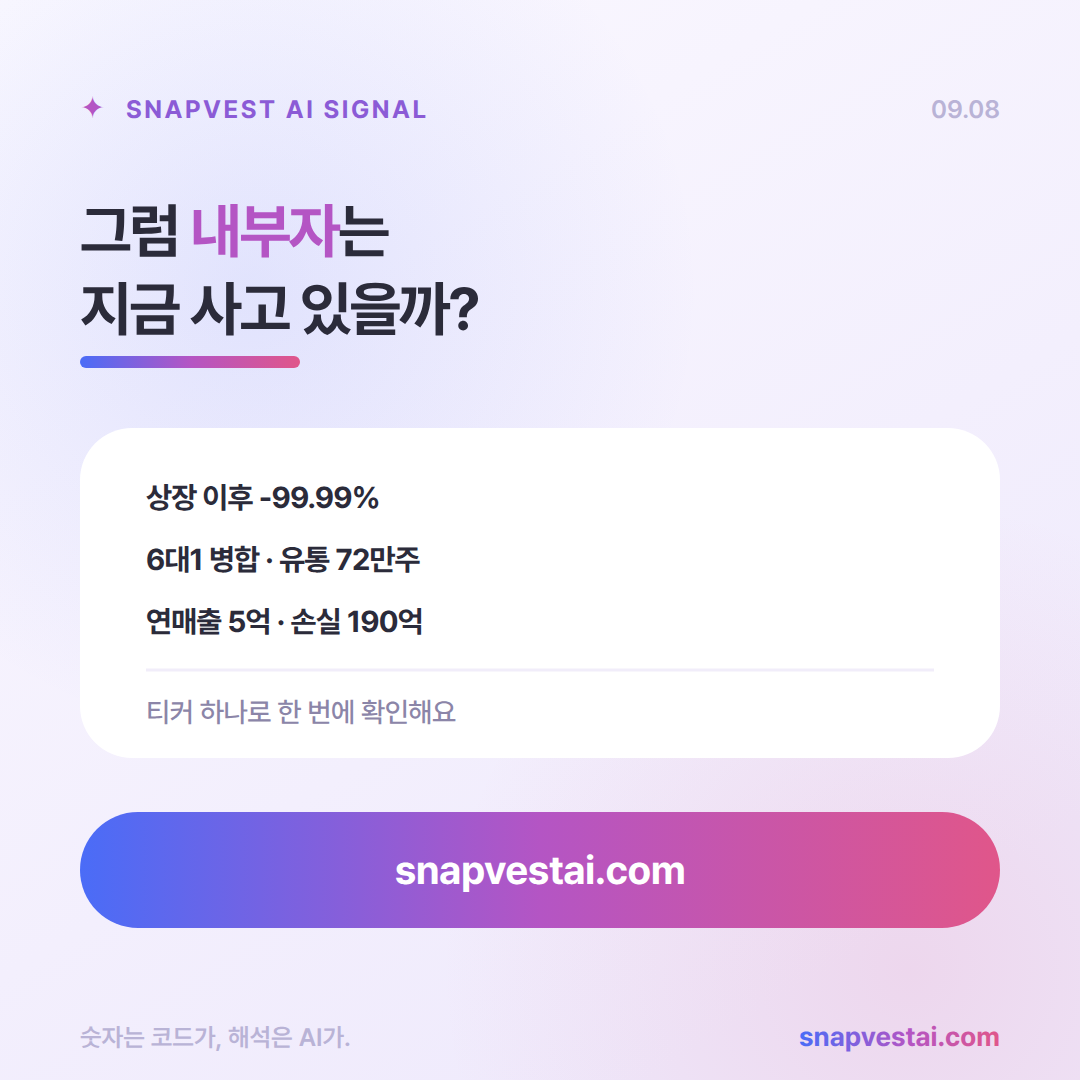
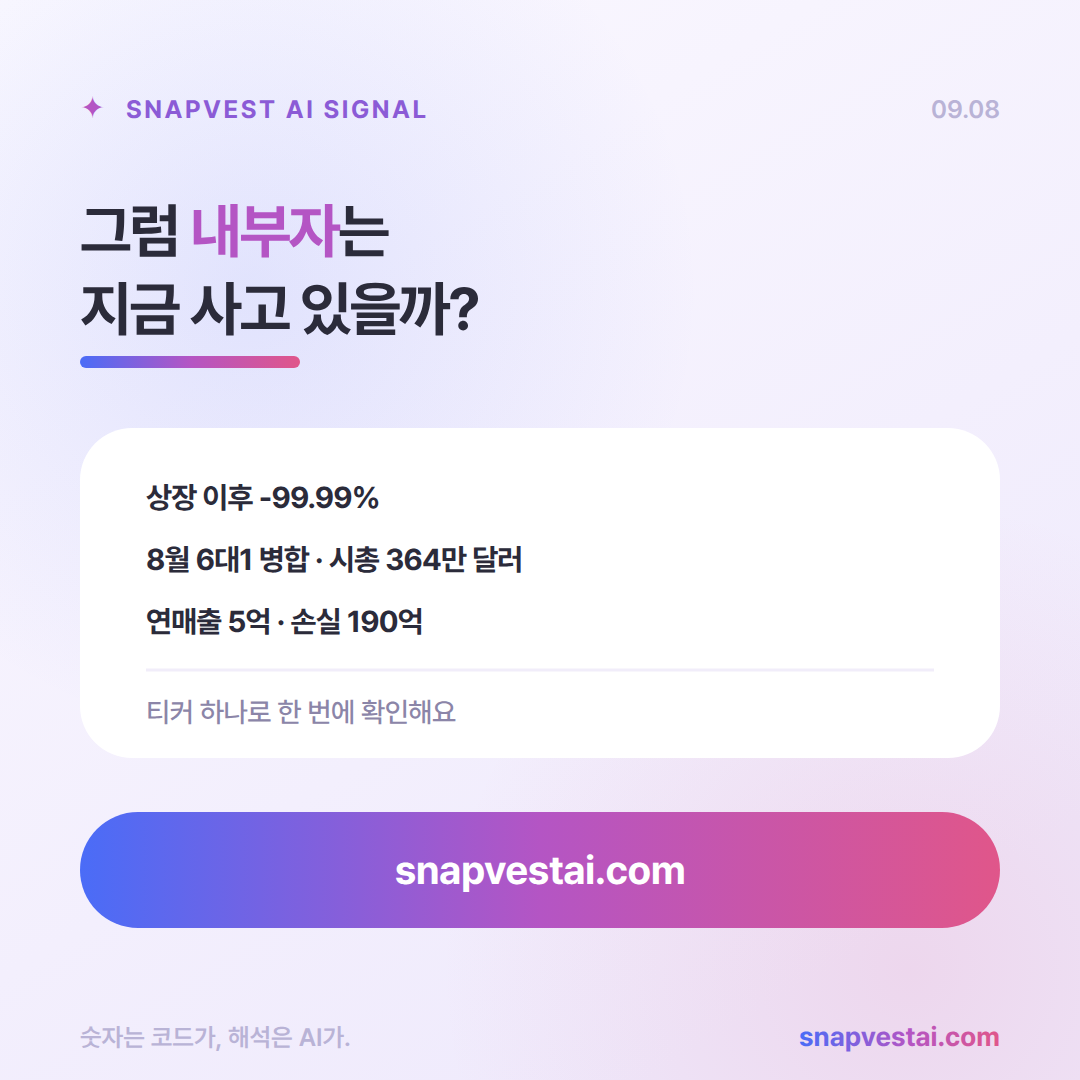
cardnews(BRNX): 토스 일별 시세로 시세·시총 바로잡고 4번을 실제 일봉으로
받은 토스 전체 표가 16일 연속임을 등락률 체인(최대 오차 0.007%p)과
OHLC 정합성으로 확인했다. 골라 뽑은 날이라 못 그렸던 일봉을 실제
시·고·저·종·거래량으로 그리고, 캡처 자리(photo_chart/chart_stats)를 걷어냈다.

  시세      $2.75 +22.76%  ->  $2.46 +9.82%  (09.08 프리마켓)
  시가총액  약 197만 달러  ->  약 364만 달러
  거래량    자료 없음      ->  27만주
  5번 문구  유통 72만주    ->  시총 364만 달러 (역산 148만주와 어긋나 삭제)

지표는 위 16일로 직접 계산했다. MFI 25 / RSI 48 / %B 0.23 —
8/27 하락일 거래량이 전체의 절반을 넘어 MFI만 눌린 자리다.

09.08 은 프리마켓이라 정규장 마감 뒤 마지막 봉과 지표가 바뀐다.
3번·4번 카드 하단에 그렇게 적었다.

Claude-Session: https://claude.ai/code/session_01RMiKh4knUhoRQtbEt8tjeA

Changed region(s): [[0.1222, 0.4889, 0.4889, 0.55]]

diff --git a/cardnews/SOURCES.md b/cardnews/SOURCES.md
@@ -2,69 +2,118 @@
 
 **국내 주식이 아니다.** 이스라엘 로시하아인(텔아비브 인근) 소재, 나스닥 상장.
 
-## ⚠ 날짜를 추론했다 — 확인 필요
+## ⚠ 첫 자료를 토스 화면으로 바로잡았다
 
-사용자 자료의 마지막 날짜 행은 `09.04 $2.24`이고, 그다음이 날짜 없이
-`최근 $2.75 (+22.76%)`로 적혀 있다. 카드에는 **09.08**로 넣었다.
+처음 받은 자료는 마지막 시세가 `$2.75 (+22.76%)` 였고, 날짜도 없었다.
+이후 받은 토스 일별 시세 전체 표로 세 군데를 고쳤다.
 
-근거 — 2026-09-04는 금요일이고, **9월 7일 월요일은 미국 노동절로 휴장**이다
-(2026년 9월 1일이 화요일이므로 첫 월요일이 7일). 따라서 9/4 다음 정규장은
-**9월 8일 화요일**뿐이다.
+| 항목 | 처음 | 고친 값 | 근거 |
+|---|---|---|---|
+| 시세 | $2.75 · +22.76% | **$2.46 · +9.82%** | 토스 09.08 행 · 2.46/2.24−1 = +9.82% |
+| 시가총액 | 약 197만 달러 | **약 364만 달러** | 토스 표기 $3,638,900 |
+| 발행주식 | 72만주 (병합 후 계산) | **약 148만주** | 3,638,900 ÷ 2.46 = 1,479,228 |
 
-**틀렸으면 `date` 한 줄만 고치면 된다.**
+$2.75 는 09.08 장외에서 잠깐 찍힌 값으로 보인다. 표의 09.08 행 고가가
+$2.87 이라 정규장·프리마켓 어디서도 $2.75 종가가 성립하지 않는다.
 
-## 시세 — 사용자 제공 (토스/증권사 표기)
+## ⚠ 09.08 은 아직 안 끝난 날이다 — 프리마켓 기준
 
-| 항목 | 값 |
-|---|---|
-| 종가 | **$2.75** |
-| 등락률 | **+22.76%** (전일 $2.24) |
-| 애프터마켓 | +11.60% |
-| 52주 범위 | $2.06 ~ $512.40 |
+토스 헤더가 `$2.46 · 프리마켓 +$0.22 (9.82%)` 로 나온다. 거래량도
+**272,174주로 직전 15일 평균(2,741,255주)의 0.10배**뿐이다. 두 가지가
+같은 말을 한다 — **정규장이 아직 안 끝났다.**
 
-### 등락률 체인 검산
+카드에는 프리마켓 기준임을 두 자리에 적었다.
 
-연속된 날끼리 전부 맞는다. 오차 최대 0.01%p.
+▪ 3번 카드 하단 — `시세는 9/8 프리마켓 기준`
+▪ 4번 카드 하단 — `마지막 봉은 프리마켓이에요`
+
+**오늘 정규장이 닫히면 마지막 봉과 지표 세 개가 바뀐다.**
+지난 회차(SNOW)에서 프리마켓 MFI 27 이 정규장 확정 뒤 49 로 올라갔다.
+
+## 일별 시세 — 토스 캡처 (16일 전부 실제값)
+
+| 날짜 | 시가 | 고가 | 저가 | 종가 | 거래량 |
+|---|---|---|---|---|---|
+| 08.17 | $3.61 | $3.71 | $2.65 | $3.05 | 3,413,108 |
+| 08.18 | $3.01 | $3.02 | $2.41 | $2.65 | 425,752 |
+| 08.19 | $2.75 | $3.90 | $2.64 | $2.97 | 1,878,419 |
+| 08.20 | $2.88 | $3.26 | $2.80 | $3.20 | 2,486,750 |
+| 08.21 | $3.73 | $4.00 | $3.47 | $3.73 | 1,478,050 |
+| 08.24 | $4.20 | $4.20 | $3.69 | $4.18 | 486,255 |
+| 08.25 | $4.94 | $5.75 | $4.63 | $5.56 | 1,710,566 |
+| 08.26 | $6.45 | $7.40 | $5.79 | $6.24 | 1,282,569 |
+| 08.27 | $6.89 | **$10.36** | $3.26 | $3.86 | **10,477,643** |
+| 08.28 | $3.83 | $4.25 | $3.01 | $3.89 | 6,088,514 |
+| 08.31 | $4.50 | $4.87 | $3.88 | $4.28 | 2,093,580 |
+| 09.01 | $3.42 | $3.85 | $3.28 | $3.52 | 2,404,933 |
+| 09.02 | $3.89 | $4.00 | $3.04 | $3.16 | 2,241,281 |
+| 09.03 | $3.31 | $3.33 | $2.80 | $3.04 | 737,253 |
+| 09.04 | $2.83 | $2.87 | $2.17 | $2.24 | 3,914,152 |
+| 09.08 | $2.50 | $2.87 | $2.35 | **$2.46** | 272,174 ⚠프리마켓 |
+
+### 두 가지 검산을 통과했다
 
 ```
-08.25 → 08.26   +12.23%  (표기 +12.23%)  ✓
-08.26 → 08.27   -38.14%  (표기 -38.14%)  ✓
-08.31 → 09.01   -17.76%  (표기 -17.75%)  ✓
-09.01 → 09.02   -10.23%  (표기 -10.22%)  ✓
-09.02 → 09.03    -3.80%  (표기 -3.79%)   ✓
-09.03 → 09.04   -26.32%  (표기 -26.31%)  ✓
-09.04 → 최근    +22.77%  (표기 +22.76%)  ✓
+등락률 체인   16일 전부 (close/prev−1) 가 표기 등락률과 일치.
+             최대 오차 0.007%p → 빠진 거래일이 없다 ✓
+OHLC 정합성   16일 전부 저가 ≤ min(시,종), 고가 ≥ max(시,종) ✓
 ```
 
-08.21→08.25 와 08.27→08.31 은 사이에 거래일이 빠져 있어 체인이 안 맞는다.
-자료가 **연속된 전 거래일이 아니라 골라 뽑은 날**이라는 뜻이고, 이 회차의
-일봉을 그리면 안 되는 이유이기도 하다.
+**처음 받은 자료는 체인이 두 군데서 끊겼다**(08.21→08.25, 08.27→08.31).
+골라 뽑은 날이라 일봉을 못 그렸던 것이고, 이번 표는 연속이라 **실제 봉을
+그렸다.** 4번 카드의 캡처 자리를 없애고 진짜 일봉으로 바꾼 이유다.
 
-### 파생값 (직접 계산)
+## 지표 — 위 16일로 직접 계산
+
+| 지표 | 값 | 계산 |
+|---|---|---|
+| MFI(14) | **25** · 자금 유출 우위 | 대표가 (고+저+종)/3 × 거래량 |
+| RSI(14) | **48** · 중립 구간 | 종가 변화폭 14일 |
+| 볼린저 %B | **0.23** · 하단 밴드 근처 | 16일 이동평균 ± 2σ (표본표준편차) |
 
 ```
-병합 후 발행주식   430만 ÷ 6 = 716,667주
-시가총액          716,667 × $2.75 = $1,970,833  → 약 197만 달러
-52주 고점 대비     2.75 / 512.40 − 1 = -99.46%   → 카드에 -99%
-52주 저가 대비     2.75 / 2.06 − 1 = +33.5%
-52주 범위 안 위치  (2.75−2.06) / (512.40−2.06) = 0.14%
+볼린저   중심 $3.627 · σ 1.071 · 하단 $1.486 · 상단 $5.768
 ```
 
-사용자 자료의 시총 표기 `188만~220만 달러` 범위 안에 들어간다.
-
-**52주 범위에서 0.14% 지점이다.** 사실상 바닥이다.
+**MFI 25 와 RSI 48 이 벌어진 이유.** 8/27 하락일 거래량 1,047만 주가
+16일 전체 거래량의 절반을 넘는다. MFI 는 거래량을 싣기 때문에 그 하루가
+분자를 통째로 눌러 25 로 나오고, RSI 는 거래량을 안 보니 48(중립)에 선다.
+**같은 화면을 값 하나로만 읽으면 안 되는 자리다.**
 
 ## ⚠⚠ 이 회차에서 제일 조심할 것 — 병합 소급 반영값
 
 `$512.40`(52주 고가) · `$181,965`(사상 최고가) 는 **실제로 그 값에 거래된
 적이 없다.** 반복된 주식병합(reverse split)을 소급 반영해 환산한 값이다.
 
-가장 최근 병합은 **2026년 8월 12일 6대1**이고, 이때 발행주식이
-430만주 → 약 72만주로 줄었다.
+가장 최근 병합은 **2026년 8월 12일 6대1**이다.
 
 카드에는 `-99%`(고점 대비)만 넣고 `$512.40` 같은 절대값은 안 썼다.
 **글귀에서 이 값을 쓸 때는 반드시 "병합 소급 반영 기준"이라고 붙인다.**
 안 붙이면 "18만 달러 하던 주식"으로 읽힌다.
+
+## ⚠ 발행주식이 자료보다 두 배다
+
+```
+자료 기준   430만 ÷ 6 = 716,667주
+토스 역산   $3,638,900 ÷ $2.46 = 1,479,228주   ← 약 2.06배
+```
+
+병합 직후 72만주였다면 그 뒤에 **약 76만주가 새로 발행됐다는 뜻**이다.
+현금 $490만 대 총부채 $900만인 회사라 증자 가능성이 낮지 않지만,
+**어떤 공시로 늘었는지는 확인하지 못했다.** 그래서 5번 카드 문구를
+`6대1 병합 · 유통 72만주` 에서 **`8월 6대1 병합 · 시총 364만 달러`** 로
+바꿨다. 검산된 값만 남긴 것이다.
+
+## 파생값 (직접 계산)
+
+```
+52주 고점 대비   2.46 / 512.40 − 1 = -99.52%   → 카드에 -99%
+52주 저가 대비   2.46 / 2.06 − 1 = +19.4%
+52주 범위 안 위치 (2.46−2.06) / (512.40−2.06) = 0.08%
+8월 고가 대비    2.46 / 10.36 − 1 = -76.3%
+```
+
+**52주 범위에서 0.08% 지점이다.** 사실상 바닥이다.
 
 ## 상승 이유 (사용자 제공)
 
@@ -75,10 +124,13 @@
    'The Big Biz Show' 출연 (175개국 케이블·Roku·라디오)
 3. **헝가리 프로젝트** — 8/28 첫 통합 에너지 리소스 센터 부지
    확정 매입 계약. 태양광 + 배터리 + 열 저장 + 데이터센터 결합 구상
-4. **병합으로 유통물량 급감** — 72만주. 소량 거래로도 크게 흔들린다
+4. **병합으로 유통물량 급감** — 소량 거래로도 크게 흔들린다
 
 **최근 개별 등락일 대부분에 새 공시가 없다.** 8월 이후 급등락은
 리브랜딩 모멘텀의 연장선이고 시장 전체 흐름과도 따로 논다.
+
+일별 표가 이걸 그대로 보여준다 — 8/27 CEO 방송 출연일 장중 $10.36 을
+찍고 같은 날 종가 $3.86 으로 -38% 마감했다. **하루 안에 3배 폭이 났다.**
 
 ## 회사
 
@@ -103,43 +155,18 @@
 
 ## 리스크
 
-▪ 초소형주 — 시총 약 197만 달러 (25억~30억원). 코스닥 최소형주보다 작다
-▪ 극단적 저유동성 — 유통 약 72만주. 하루 -38%, +33%가 정상 범주로 나온다
+▪ 초소형주 — 시총 약 364만 달러 (약 48억원). 코스닥 최소형주보다 작다
+▪ 극단적 저유동성 — 하루 -38%, +33%가 정상 범주로 나온다
 ▪ **주식병합 상습** — 나스닥 최소주가($1) 요건을 맞추려는 조치.
   근본 원인(주가 하락)이 안 풀리면 또 할 수 있다
+▪ **발행주식 증가** — 병합 후 72만주 → 약 148만주. 경위 미확인
 ▪ 매출 실체가 거의 없음 — 연매출 $387K. 데이터센터·AI는 아직 구상·텀시트 단계
 ▪ 재무 압박 — 현금 $490만 vs 총부채 $900만. EIB 채무 합의 미완료
 ▪ 명확한 촉매 부재 — 최근 급등락일 대부분에 새 공시가 없다
-
-## ⚠ 캡처의 값과 표의 종가가 다르다
-
-받은 일봉 캡처 두 장의 주석을 검산했더니 **기준 가격이 서로 다르다.**
-
-```
-첫 장   -73.64% / +32.52%  →  2.73  (10.36×0.2636, 2.06×1.3252)
-둘째 장 -73.55% / +33.00%  →  2.74  (화면 우측 가격표도 2.74)
-표의 종가                     2.75
-```
-
-세 값이 $0.01 씩 어긋난다. **실시간 값이 움직이는 중에 찍은 화면**이라는
-뜻이다. 카드 1번에는 표의 **$2.75(+22.76%)** 를 썼다 — 날짜를 달아 내보내는
-자리라 스냅샷보다 종가가 맞다.
-
-캡처에서 확인한 값 두 개는 그대로 쓴다. 시점과 무관하게 고정이다.
-
-```
-$2.06  26.08.06  사상 최저
-$10.36 26.08.27  8월 고가 (사용자 자료의 '08.27 장중 고가 $10.36' 과 일치)
-```
 
 ## ⚠ 아직 채우지 못한 것
 
 | 항목 | 지금 | 필요한 것 |
 |---|---|---|
-| 날짜 | 09.08 (추론) | 대표님 확인 |
-| 거래량 | `자료 없음` | 시세 캡처 |
-| **4번 카드** | 값은 준비됨, **이미지 없음** | 일봉 캡처를 **따로 한 번 더** 보내주셔야 함 |
-
-**일봉을 직접 그릴 수 없다.** 받은 일별 자료가 연속된 거래일이 아니라
-골라 뽑은 날이고(위 체인 검산 참고), 거래량도 없어 MFI를 못 낸다.
-지어낸 봉 대신 **캡처판**을 쓴다.
+| 09.08 정규장 종가 | 프리마켓 $2.46 | 오늘 장 마감 뒤 시세 (봉 1개 + 지표 3개 갱신) |
+| 발행주식 증가 경위 | 미확인 | 8월 이후 증자·전환 공시 |
